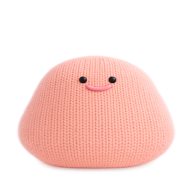
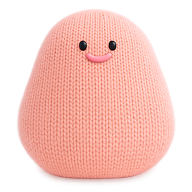
UI 수정 완료

diff --git a/index.html b/index.html
@@ -12,7 +12,8 @@
 <link rel="apple-touch-icon" href="icon-192.png">
 <style>
   @import url('https://fonts.googleapis.com/css2?family=Pretendard:wght@400;500;600;700&display=swap');
-  * { margin: 0; padding: 0; box-sizing: border-box; -webkit-tap-highlight-color: transparent; }
+  * { margin: 0; padding: 0; box-sizing: border-box; -webkit-tap-highlight-color: transparent; user-select: none; -webkit-user-select: none; }
+  html { overflow-x: hidden; }
   :root {
     --bg: #ffffff; --bg-sub: #f8f8f8; --text: #1a1a1a; --text-sub: #888888;
     --text-light: #b0b0b0; --border: #f0f0f0; --chip-bg: #f5f5f5;
@@ -136,7 +137,14 @@
     transition: all 0.35s cubic-bezier(0.32,0.72,0,1);
   }
   .mood-overlay.show .mood-modal { transform: scale(1) translateY(0); }
-  .mood-modal-title { font-size: 18px; font-weight: 700; text-align: center; margin-bottom: 4px; }
+  .mood-modal-header { display: flex; align-items: center; justify-content: center; position: relative; margin-bottom: 4px; }
+  .mood-modal-title { font-size: 18px; font-weight: 700; text-align: center; }
+  .mood-close-btn {
+    position: absolute; right: -8px; top: -8px; width: 32px; height: 32px; border: none; background: transparent;
+    font-size: 20px; color: var(--text-light); cursor: pointer; display: flex; align-items: center; justify-content: center;
+    border-radius: 50%; transition: background 0.15s;
+  }
+  .mood-close-btn:active { background: var(--chip-bg); }
   .mood-modal-sub { font-size: 13px; color: var(--text-sub); text-align: center; margin-bottom: 24px; }
   .mood-label { font-size: 13px; font-weight: 600; color: var(--text-sub); margin-bottom: 10px; }
   .mood-options { display: flex; gap: 8px; margin-bottom: 20px; }
@@ -321,6 +329,23 @@
   }
   .drop-indicator.visible { opacity: 1; }
 
+  /* Swipe to delete */
+  .swipe-wrapper {
+    position: relative; overflow: hidden;
+  }
+  .swipe-content {
+    position: relative; z-index: 1; background: var(--bg);
+    transition: transform 0.25s ease;
+  }
+  .swipe-content.swiping { transition: none; }
+  .swipe-delete-btn {
+    position: absolute; right: 0; top: 0; bottom: 0; width: 80px;
+    background: var(--danger); color: #fff; border: none; font-size: 13px; font-weight: 600;
+    font-family: inherit; cursor: pointer; display: flex; align-items: center; justify-content: center;
+    transition: opacity 0.2s;
+  }
+  .swipe-delete-btn:active { opacity: 0.8; }
+
   /* Detail bottom bar */
   .detail-bottom-bar {
     position: fixed; bottom: 0; left: 50%; transform: translateX(-50%);
@@ -408,17 +433,18 @@
   .bottom-btn-row .btn-primary { flex: 1; }
 
   /* PLAY - Routinery style */
-  .play-screen { display: flex; flex-direction: column; min-height: 100dvh; }
+  .play-screen { display: flex; flex-direction: column; height: calc(100dvh - 68px); overflow: hidden; }
   .play-top {
-    padding: 0 24px; text-align: center;
+    padding: 0 24px; text-align: center; flex-shrink: 0;
   }
-  .play-task-title-main { font-size: 24px; font-weight: 700; letter-spacing: -0.5px; }
-  .play-time-range { font-size: 14px; color: var(--text-sub); margin-top: 6px; font-variant-numeric: tabular-nums; }
+  .play-task-title-main { font-size: 22px; font-weight: 700; letter-spacing: -0.5px; }
+  .play-time-range { font-size: 13px; color: var(--text-sub); margin-top: 4px; font-variant-numeric: tabular-nums; }
   .play-timer-area {
-    flex: 1; display: flex; flex-direction: column; align-items: center; justify-content: center; padding: 24px 20px 12px;
+    flex: 1; display: flex; flex-direction: column; align-items: center; justify-content: center; padding: 8px 20px 4px;
+    min-height: 0;
   }
   .play-timer-ring {
-    width: 220px; height: 220px; position: relative; margin-bottom: 16px;
+    width: 200px; height: 200px; position: relative; margin-bottom: 8px;
   }
   .play-timer-ring svg { width: 100%; height: 100%; transform: rotate(-90deg); }
   .play-timer-ring .bg { stroke: var(--border); }
@@ -428,16 +454,16 @@
     position: absolute; inset: 0; display: flex; flex-direction: column;
     align-items: center; justify-content: center;
   }
-  .play-timer-emoji { font-size: 48px; margin-bottom: 8px; }
+  .play-timer-emoji { font-size: 40px; margin-bottom: 4px; }
   .play-time {
-    font-size: 32px; font-weight: 700; font-variant-numeric: tabular-nums; letter-spacing: -1px;
+    font-size: 28px; font-weight: 700; font-variant-numeric: tabular-nums; letter-spacing: -1px;
   }
   .play-time.overtime { color: var(--danger); }
   .play-time-label { font-size: 12px; color: var(--text-light); margin-top: 2px; }
 
   /* Play controls - 3 buttons */
   .play-controls {
-    display: flex; gap: 20px; align-items: center; justify-content: center; padding: 8px 24px 20px;
+    display: flex; gap: 20px; align-items: center; justify-content: center; padding: 4px 24px 8px; flex-shrink: 0;
   }
   .play-btn {
     border: none; border-radius: 50%; cursor: pointer; display: flex;
@@ -455,8 +481,8 @@
 
   /* Play bottom info */
   .play-bottom-info {
-    padding: 16px 24px calc(env(safe-area-inset-bottom,0px) + 24px);
-    text-align: center; border-top: 1px solid var(--border);
+    padding: 10px 24px calc(env(safe-area-inset-bottom,0px) + 12px);
+    text-align: center; border-top: 1px solid var(--border); flex-shrink: 0;
   }
   .play-next-label { font-size: 14px; color: var(--text-sub); margin-bottom: 4px; }
   .play-next-label strong { color: var(--text); font-weight: 600; }
@@ -519,17 +545,12 @@
 
   /* Menu Sheet */
   .menu-sheet-item {
-    display: flex; align-items: center; gap: 14px; padding: 16px 24px;
-    border: none; background: transparent; font-size: 15px; font-family: inherit;
+    display: block; padding: 16px 24px;
+    border: none; background: transparent; font-size: 15px; font-weight: 500; font-family: inherit;
     cursor: pointer; width: 100%; text-align: left; transition: background 0.15s; color: var(--text);
   }
   .menu-sheet-item:active { background: var(--chip-bg); }
-  .menu-sheet-item .menu-icon {
-    width: 36px; height: 36px; border-radius: 10px; background: var(--chip-bg);
-    display: flex; align-items: center; justify-content: center; font-size: 16px; flex-shrink: 0;
-  }
   .menu-sheet-item.danger { color: var(--danger); }
-  .menu-sheet-item.danger .menu-icon { background: #fef2f2; }
 
   /* Emoji Picker */
   .emoji-picker-overlay {
@@ -776,7 +797,10 @@
 <div class="mood-overlay" id="moodOverlay" onclick="closeMoodModal()">
   <div class="mood-modal" onclick="event.stopPropagation()">
     <div id="moodSelectView">
-      <div class="mood-modal-title">오늘 기분이 어때요?</div>
+      <div class="mood-modal-header">
+        <div class="mood-modal-title">오늘 기분이 어때요?</div>
+        <button class="mood-close-btn" onclick="closeMoodModal()">&times;</button>
+      </div>
       <div class="mood-modal-sub">기분과 에너지에 맞는 루틴을 추천해 드릴게요</div>
       <div class="mood-label">기분</div>
       <div class="mood-options" id="moodOptions">
@@ -887,16 +911,6 @@ const QUOTES = [
 ];
 const RECOMMEND_ROUTINES = [
   {
-    title: "평온해지는 루틴",
-    tasks: [
-      {emoji:"🧘",title:"명상",time:10,hours:0,minutes:10,seconds:0,desc:"고요한 마음으로 시작하기",autoNext:false},
-      {emoji:"🧘♂️",title:"요가",time:50,hours:0,minutes:50,seconds:0,desc:"몸과 마음의 균형",autoNext:false},
-      {emoji:"🚿",title:"샤워",time:15,hours:0,minutes:15,seconds:0,desc:"따뜻한 물로 긴장 풀기",autoNext:false},
-      {emoji:"💬",title:"오늘의 기분 적어보기",time:2,hours:0,minutes:2,seconds:0,desc:"지금 기분을 적어보세요",autoNext:false},
-      {emoji:"🚶",title:"천천히 걷기",time:20,hours:0,minutes:20,seconds:0,desc:"천천히 걸으며 생각 정리",autoNext:false},
-    ]
-  },
-  {
     title: "상쾌한 아침 루틴",
     tasks: [
       {emoji:"💧",title:"물 마시기",time:1,hours:0,minutes:1,seconds:0,desc:"하루의 시작, 한 잔의 물",autoNext:false},
@@ -904,16 +918,6 @@ const RECOMMEND_ROUTINES = [
       {emoji:"🪥",title:"양치질",time:3,hours:0,minutes:3,seconds:0,desc:"상쾌한 아침의 시작",autoNext:false},
       {emoji:"🧴",title:"스킨케어",time:3,hours:0,minutes:3,seconds:0,desc:"피부에 수분 충전",autoNext:false},
       {emoji:"🥣",title:"아침 식사",time:15,hours:0,minutes:15,seconds:0,desc:"천천히 맛있게 먹기",autoNext:false},
-    ]
-  },
-  {
-    title: "집중 공부 루틴",
-    tasks: [
-      {emoji:"🧹",title:"책상 정리",time:1,hours:0,minutes:1,seconds:0,desc:"깨끗한 공간, 맑은 머리",autoNext:false},
-      {emoji:"🎧",title:"집중",time:50,hours:0,minutes:50,seconds:0,desc:"몰입하는 시간",autoNext:false},
-      {emoji:"☕",title:"휴식",time:10,hours:0,minutes:10,seconds:0,desc:"잠깐 쉬어가기",autoNext:false},
-      {emoji:"🤸",title:"스트레칭",time:10,hours:0,minutes:10,seconds:0,desc:"굳은 몸 풀어주기",autoNext:false},
-      {emoji:"📖",title:"복습",time:30,hours:0,minutes:30,seconds:0,desc:"배운 것을 내 것으로",autoNext:false},
     ]
   },
   {
@@ -1025,9 +1029,7 @@ function renderHome() {
 // RECOMMEND ROUTINES
 function renderRecommendSection() {
   const sec = document.getElementById("recommendSection");
-  const existingTitles = routines.map(r => r.title);
   sec.innerHTML = RECOMMEND_ROUTINES.map((rec, i) => {
-    const isAdded = existingTitles.includes(rec.title);
     const totalMin = rec.tasks.reduce((s,t) => s + t.time, 0);
     const icons = rec.tasks.slice(0,5).map(t => t.emoji).join("");
     return `<div class="recommend-card" style="animation-delay:${i*0.06}s">
@@ -1035,16 +1037,13 @@ function renderRecommendSection() {
         <div class="recommend-card-title">${rec.title}</div>
         <div class="recommend-card-meta">${icons} · ${totalMin}분</div>
       </div>
-      <button class="recommend-add-btn ${isAdded?'added':''}" onclick="addRecommendRoutine(${i})">
-        ${isAdded ? '✓ 추가됨' : '+ 추가'}
-      </button>
+      <button class="recommend-add-btn" onclick="addRecommendRoutine(${i})">+ 추가</button>
     </div>`;
   }).join("");
 }
 function addRecommendRoutine(idx) {
   const rec = RECOMMEND_ROUTINES[idx];
   if (!rec) return;
-  if (routines.find(r => r.title === rec.title)) { showToast("이미 추가된 루틴이에요"); return; }
   const newRoutine = {
     id: genId(), title: rec.title, days: [0,1,2,3,4,5,6], cycle: "매일",
     startTime: "07:00 AM", notifOn: false, notifType: "push", notifMsg: "",
@@ -1076,22 +1075,29 @@ function renderDetail() {
   body.innerHTML = r.tasks.map((t,i) => {
     const isDone = !!checked[i];
     const timeStr = formatTaskTime(t);
-    return `<div class="detail-task-item ${isDone?'done':''}" style="animation-delay:${i*0.04}s"
-      data-idx="${i}"
-      onclick="onTaskItemClick(event,${i})"
-      ontouchstart="onTaskTouchStart(event,${i})"
-      ontouchmove="onTaskTouchMove(event)" ontouchend="onTaskTouchEnd(event)">
-      <div class="detail-task-num">${i+1}</div>
-      <div class="detail-task-emoji">${t.emoji}</div>
-      <div class="detail-task-info"><div class="detail-task-title">${t.title}</div><div class="detail-task-time">${timeStr}${t.autoNext?' · 자동 넘김':''}</div></div>
-      <div class="detail-task-check ${isDone?'done':''}" onclick="event.stopPropagation();toggleDetailCheck('${r.id}',${i})">
-        <svg width="14" height="14" viewBox="0 0 14 14" fill="none"><path d="M2.5 7.5L5.5 10.5L11.5 3.5" stroke="white" stroke-width="2" stroke-linecap="round" stroke-linejoin="round"/></svg>
+    return `<div class="swipe-wrapper" data-idx="${i}">
+      <button class="swipe-delete-btn" onclick="swipeDeleteTask(${i})">삭제</button>
+      <div class="swipe-content">
+        <div class="detail-task-item ${isDone?'done':''}" style="animation-delay:${i*0.04}s"
+          data-idx="${i}"
+          onclick="onTaskItemClick(event,${i})"
+          ontouchstart="onTaskTouchStart(event,${i})"
+          ontouchmove="onTaskTouchMove(event)" ontouchend="onTaskTouchEnd(event)">
+          <div class="detail-task-num">${i+1}</div>
+          <div class="detail-task-emoji">${t.emoji}</div>
+          <div class="detail-task-info"><div class="detail-task-title">${t.title}</div><div class="detail-task-time">${timeStr}${t.autoNext?' · 자동 넘김':''}</div></div>
+          <div class="detail-task-check ${isDone?'done':''}" onclick="event.stopPropagation();toggleDetailCheck('${r.id}',${i})">
+            <svg width="14" height="14" viewBox="0 0 14 14" fill="none"><path d="M2.5 7.5L5.5 10.5L11.5 3.5" stroke="white" stroke-width="2" stroke-linecap="round" stroke-linejoin="round"/></svg>
+          </div>
+        </div>
       </div>
     </div>`;
   }).join("");
+  initSwipeHandlers();
 }
 function onTaskItemClick(event, idx) {
   if (dragState) return;
+  if (openSwipeIdx >= 0) { closeOtherSwipes(-1); openSwipeIdx = -1; return; }
   navigateTo('taskEdit',{routineId:detailRoutineId,taskIndex:idx});
 }
 function toggleDetailCheck(rid,ti) {
@@ -1220,6 +1226,71 @@ function endDrag() {
   renderDetail();
 }
 
+// SWIPE TO DELETE
+let openSwipeIdx = -1;
+function initSwipeHandlers() {
+  const wrappers = document.querySelectorAll('.swipe-wrapper');
+  wrappers.forEach(wrapper => {
+    const content = wrapper.querySelector('.swipe-content');
+    let startX = 0, currentX = 0, isSwiping = false;
+    content.addEventListener('touchstart', (e) => {
+      if (dragState) return;
+      startX = e.touches[0].clientX;
+      currentX = startX;
+      isSwiping = false;
+      content.classList.add('swiping');
+    }, {passive: true});
+    content.addEventListener('touchmove', (e) => {
+      if (dragState) return;
+      currentX = e.touches[0].clientX;
+      const dx = currentX - startX;
+      if (dx < -10) isSwiping = true;
+      if (isSwiping) {
+        const tx = Math.max(-80, Math.min(0, dx));
+        content.style.transform = `translateX(${tx}px)`;
+      }
+    }, {passive: true});
+    content.addEventListener('touchend', () => {
+      content.classList.remove('swiping');
+      const dx = currentX - startX;
+      const idx = parseInt(wrapper.dataset.idx);
+      if (dx < -40) {
+        content.style.transform = 'translateX(-80px)';
+        closeOtherSwipes(idx);
+        openSwipeIdx = idx;
+      } else {
+        content.style.transform = '';
+        if (openSwipeIdx === idx) openSwipeIdx = -1;
+      }
+    }, {passive: true});
+  });
+}
+function closeOtherSwipes(exceptIdx) {
+  document.querySelectorAll('.swipe-wrapper').forEach(w => {
+    const idx = parseInt(w.dataset.idx);
+    if (idx !== exceptIdx) {
+      w.querySelector('.swipe-content').style.transform = '';
+    }
+  });
+}
+function swipeDeleteTask(idx) {
+  const r = routines.find(x => x.id === detailRoutineId);
+  if (!r) return;
+  const title = r.tasks[idx]?.title || '';
+  r.tasks.splice(idx, 1);
+  saveAll();
+  showToast(`${title} 삭제됨`);
+  openSwipeIdx = -1;
+  renderDetail();
+}
+// Close swipes on tap elsewhere
+document.getElementById('screenDetail').addEventListener('click', (e) => {
+  if (openSwipeIdx >= 0 && !e.target.closest('.swipe-delete-btn')) {
+    closeOtherSwipes(-1);
+    openSwipeIdx = -1;
+  }
+}, true);
+
 // Detail task sheet
 function openDetailTaskSheet() {
   sheetContext = "detail";
@@ -1246,10 +1317,10 @@ function openMenuSheet() {
   const r = routines.find(x=>x.id===detailRoutineId);
   if (!r) return;
   document.getElementById("menuSheetBody").innerHTML = `
-    <button class="menu-sheet-item" onclick="closeMenuSheet();navigateTo('create',{id:'${r.id}'})"><div class="menu-icon">⚙️</div>설정</button>
-    <button class="menu-sheet-item" onclick="closeMenuSheet();duplicateRoutine('${r.id}')"><div class="menu-icon">📋</div>복사하기</button>
-    <button class="menu-sheet-item" onclick="closeMenuSheet();toggleDisable('${r.id}')"><div class="menu-icon">${r.disabled?'▶️':'⏸️'}</div>${r.disabled?'활성화':'비활성화'}</button>
-    <button class="menu-sheet-item danger" onclick="closeMenuSheet();deleteRoutine('${r.id}')"><div class="menu-icon">🗑️</div>삭제</button>`;
+    <button class="menu-sheet-item" onclick="closeMenuSheet();navigateTo('create',{id:'${r.id}'})">설정</button>
+    <button class="menu-sheet-item" onclick="closeMenuSheet();duplicateRoutine('${r.id}')">복사하기</button>
+    <button class="menu-sheet-item" onclick="closeMenuSheet();toggleDisable('${r.id}')">${r.disabled?'활성화':'비활성화'}</button>
+    <button class="menu-sheet-item danger" onclick="closeMenuSheet();deleteRoutine('${r.id}')">삭제</button>`;
   document.getElementById("menuSheet").classList.add("show");
   document.getElementById("menuOverlay").classList.add("show");
 }
@@ -1321,10 +1392,7 @@ function renderTaskEditForm() {
       </div>
       <div style="font-size:12px;color:var(--text-light);margin-top:-8px;">시간이 끝나면 자동으로 다음 행동으로 넘어갑니다</div>
     </div>
-    <div class="edit-actions">
-      <button class="edit-action-btn" onclick="copyTask()">복사하기</button>
-      <button class="edit-action-btn danger" onclick="deleteTask()">삭제하기</button>
-    </div>`;
+    `;
   setTimeout(()=>{
     initScrollPicker('pickerH', 24, t.hours||0);
     initScrollPicker('pickerM', 60, t.minutes||0);
@@ -1524,10 +1592,8 @@ function renderTaskPicker() {
 function pickTaskToDetail(btn,emoji,title,time,desc) {
   const r=routines.find(x=>x.id===detailRoutineId);
   if (!r) return;
-  if (r.tasks.find(t=>t.title===title)) { showToast("이미 추가된 행동이에요"); return; }
   r.tasks.push({emoji,title,time,hours:0,minutes:time,seconds:0,desc,autoNext:false});
   saveAll(); renderDetail();
-  btn.classList.add("added"); btn.innerHTML="✓";
   showToast(`${emoji} ${title} 추가됨`);
 }
 function closeAllSheets() {
@@ -1847,14 +1913,14 @@ function updateMoodSubmit() {
 
 const MOOD_MAP = {
   'good_high':   { routine: '상쾌한 아침 루틴', msg: '오늘 에너지 넘치네요! 활기차게 시작해봐요 🔥' },
-  'good_mid':    { routine: '집중 공부 루틴',   msg: '기분 좋은 날, 한 가지에 집중해봐요 ✨' },
-  'good_low':    { routine: '평온해지는 루틴',   msg: '좋은 기분 그대로 천천히 흘러가요 🌿' },
-  'normal_high': { routine: '집중 공부 루틴',   msg: '에너지를 좋은 곳에 써봐요 💪' },
-  'normal_mid':  { routine: '저녁 마무리 루틴',  msg: '오늘 하루도 수고했어요 🌙' },
-  'normal_low':  { routine: '평온해지는 루틴',   msg: '지금 이 순간, 나를 위한 시간이에요 🍵' },
-  'tired_high':  { routine: '저녁 마무리 루틴',  msg: '몸은 피곤해도 마음은 괜찮아요 🌸' },
-  'tired_mid':   { routine: '평온해지는 루틴',   msg: '오늘은 푹 쉬어도 돼요 💙' },
-  'tired_low':   { routine: '평온해지는 루틴',   msg: '아무것도 안 해도 괜찮은 날이에요 🌙' },
+  'good_mid':    { routine: '상쾌한 아침 루틴', msg: '기분 좋은 날, 상쾌하게 시작해봐요 ✨' },
+  'good_low':    { routine: '저녁 마무리 루틴', msg: '좋은 기분 그대로 천천히 마무리해요 🌿' },
+  'normal_high': { routine: '상쾌한 아침 루틴', msg: '에너지를 좋은 곳에 써봐요 💪' },
+  'normal_mid':  { routine: '저녁 마무리 루틴', msg: '오늘 하루도 수고했어요 🌙' },
+  'normal_low':  { routine: '저녁 마무리 루틴', msg: '지금 이 순간, 나를 위한 시간이에요 🍵' },
+  'tired_high':  { routine: '저녁 마무리 루틴', msg: '몸은 피곤해도 마음은 괜찮아요 🌸' },
+  'tired_mid':   { routine: '저녁 마무리 루틴', msg: '오늘은 푹 쉬어도 돼요 💙' },
+  'tired_low':   { routine: '저녁 마무리 루틴', msg: '아무것도 안 해도 괜찮은 날이에요 🌙' },
 };
 
 function submitMoodRecommend() {